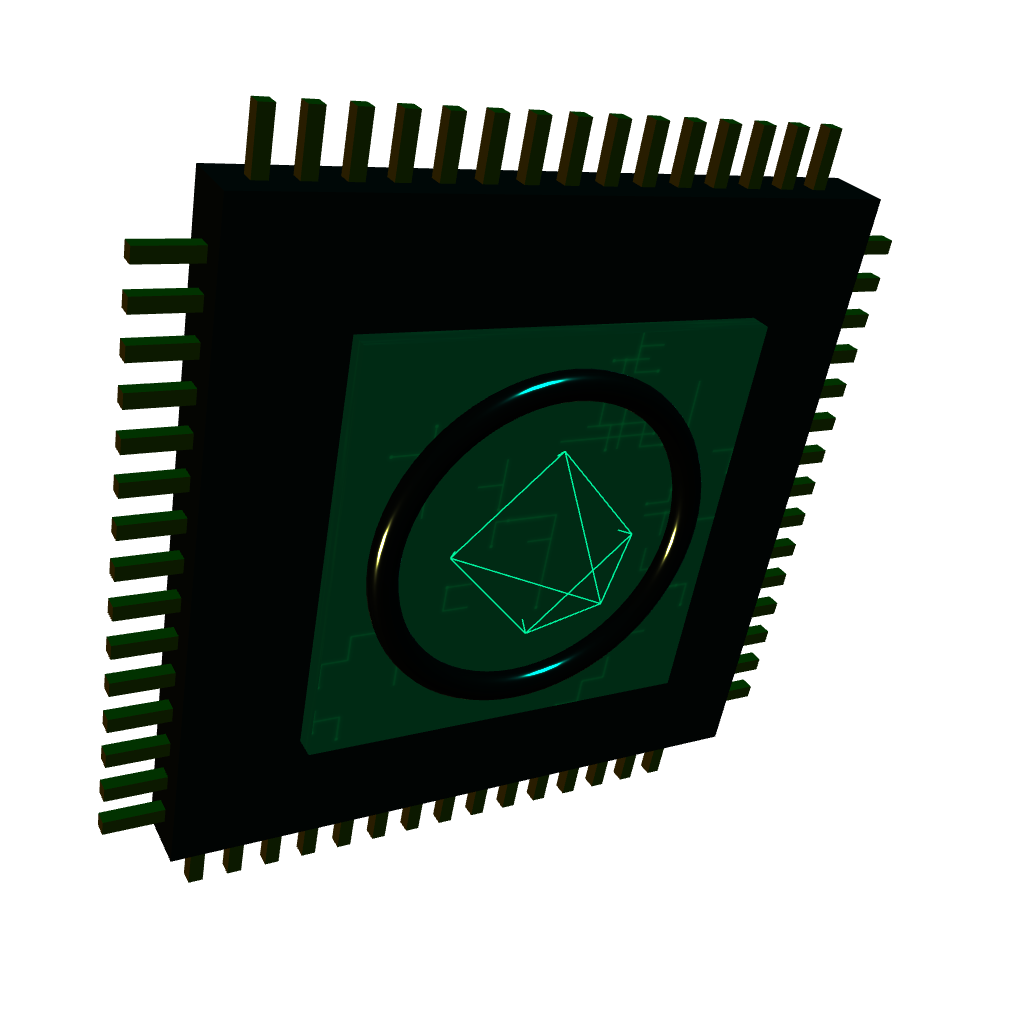
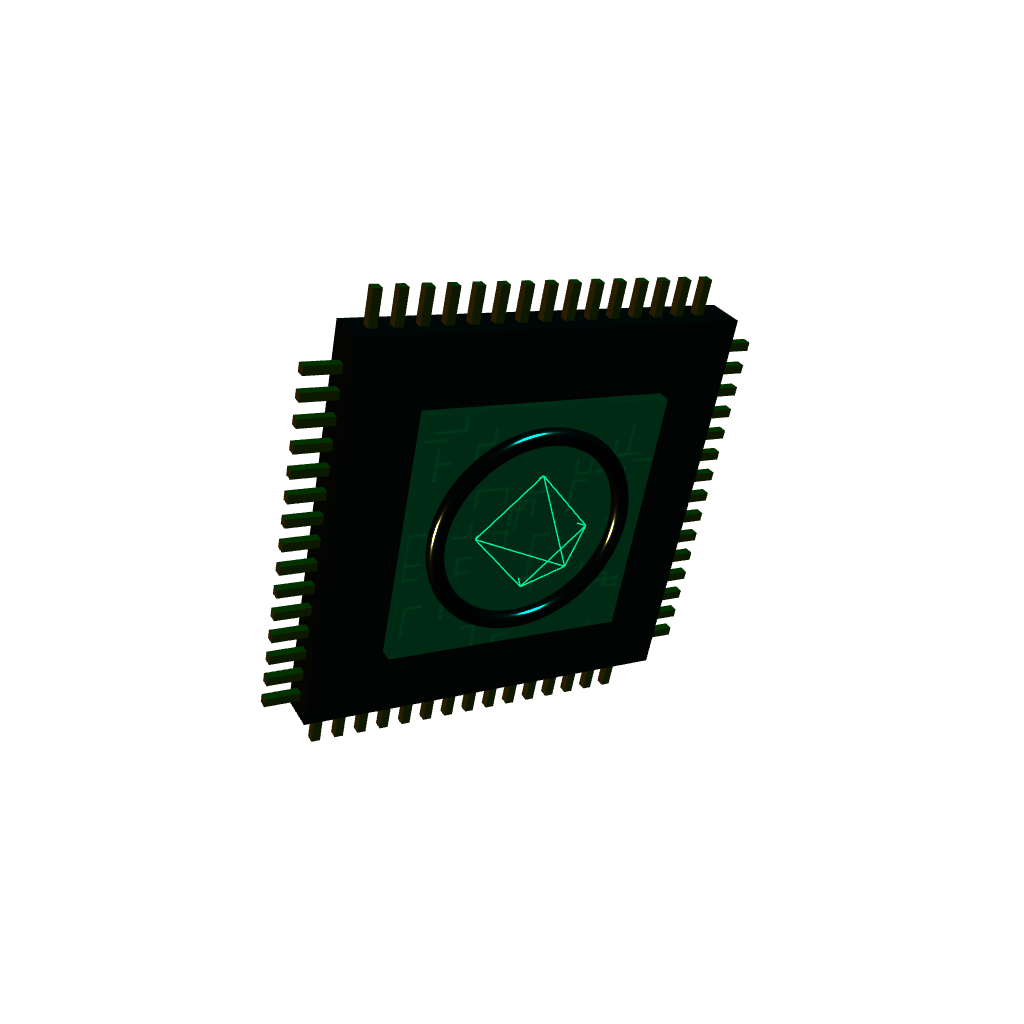
fix(assets): re-render 3D assets with generous padding safe margins, eliminate edge clipping, and add smooth floating levitation micro-animations

diff --git a/src/components/AboutSection.tsx b/src/components/AboutSection.tsx
@@ -24,13 +24,13 @@ export function AboutSection() {
         <FadeIn delay={0.1} x={-80} y={0} duration={0.9}>
           <div
             onClick={() => sfx.playBlip(920)}
-            className="relative group p-3 rounded-3xl bg-gradient-to-br from-white/10 via-black/80 to-white/5 border border-white/20 backdrop-blur-2xl shadow-2xl hover:scale-105 transition-all duration-300 cursor-pointer"
+            className="relative group p-4 sm:p-5 rounded-3xl bg-gradient-to-br from-white/10 via-black/80 to-white/5 border border-white/20 backdrop-blur-2xl shadow-2xl hover:scale-105 transition-all duration-300 cursor-pointer"
           >
             <div className="absolute -inset-2 bg-gradient-to-tr from-[#00f5a0]/30 to-[#7621B0]/30 rounded-3xl blur-xl opacity-60 group-hover:opacity-100 transition-opacity" />
             <img
               src="/assets/jinx_chip_webgpu.png"
               alt="3D Neural Core"
-              className="relative z-10 w-full h-auto object-contain rounded-2xl filter drop-shadow-[0_15px_30px_rgba(0,0,0,0.9)]"
+              className="relative z-10 w-full h-auto object-contain filter drop-shadow-[0_15px_30px_rgba(0,0,0,0.9)] animate-float-slow"
               loading="lazy"
             />
             <div className="text-[11px] font-mono text-center text-[#00f5a0] mt-2 uppercase tracking-widest font-semibold flex items-center justify-center gap-1">
@@ -46,13 +46,13 @@ export function AboutSection() {
         <FadeIn delay={0.25} x={-80} y={0} duration={0.9}>
           <div
             onClick={() => sfx.playBlip(750)}
-            className="relative group p-3 rounded-3xl bg-gradient-to-br from-white/10 via-black/80 to-white/5 border border-white/20 backdrop-blur-2xl shadow-2xl hover:scale-105 transition-all duration-300 cursor-pointer"
+            className="relative group p-4 sm:p-5 rounded-3xl bg-gradient-to-br from-white/10 via-black/80 to-white/5 border border-white/20 backdrop-blur-2xl shadow-2xl hover:scale-105 transition-all duration-300 cursor-pointer"
           >
             <div className="absolute -inset-2 bg-[#7621B0]/30 rounded-full blur-xl opacity-60 group-hover:opacity-100 transition-opacity" />
             <img
               src="/assets/jinx_vector_rag_3d.png"
               alt="3D Vector RAG Globe"
-              className="relative z-10 w-full h-auto object-contain rounded-2xl filter drop-shadow-[0_15px_30px_rgba(0,0,0,0.9)]"
+              className="relative z-10 w-full h-auto object-contain filter drop-shadow-[0_15px_30px_rgba(0,0,0,0.9)] animate-float-delayed"
               loading="lazy"
             />
             <div className="text-[11px] font-mono text-center text-[#D7E2EA] mt-2 uppercase tracking-widest font-semibold">
@@ -67,13 +67,13 @@ export function AboutSection() {
         <FadeIn delay={0.15} x={80} y={0} duration={0.9}>
           <div
             onClick={() => sfx.playBlip(820)}
-            className="relative group p-3 rounded-3xl bg-gradient-to-br from-white/10 via-black/80 to-white/5 border border-white/20 backdrop-blur-2xl shadow-2xl hover:scale-105 transition-all duration-300 cursor-pointer"
+            className="relative group p-4 sm:p-5 rounded-3xl bg-gradient-to-br from-white/10 via-black/80 to-white/5 border border-white/20 backdrop-blur-2xl shadow-2xl hover:scale-105 transition-all duration-300 cursor-pointer"
           >
             <div className="absolute -inset-2 bg-gradient-to-tr from-[#BE4C00]/40 to-[#E07A5F]/40 rounded-3xl blur-xl opacity-60 group-hover:opacity-100 transition-opacity" />
             <img
               src="/assets/jinx_pyodide_engine.png"
               alt="Pyodide WASM Engine"
-              className="relative z-10 w-full h-auto object-contain rounded-2xl filter drop-shadow-[0_15px_30px_rgba(0,0,0,0.9)]"
+              className="relative z-10 w-full h-auto object-contain filter drop-shadow-[0_15px_30px_rgba(0,0,0,0.9)] animate-float-subtle"
               loading="lazy"
             />
             <div className="text-[11px] font-mono text-center text-[#F4A261] mt-2 uppercase tracking-widest font-semibold">
@@ -88,13 +88,13 @@ export function AboutSection() {
         <FadeIn delay={0.3} x={80} y={0} duration={0.9}>
           <div
             onClick={() => sfx.playSuccess()}
-            className="relative group p-3 rounded-3xl bg-gradient-to-br from-white/10 via-black/80 to-white/5 border border-white/20 backdrop-blur-2xl shadow-2xl hover:scale-105 transition-all duration-300 cursor-pointer"
+            className="relative group p-4 sm:p-5 rounded-3xl bg-gradient-to-br from-white/10 via-black/80 to-white/5 border border-white/20 backdrop-blur-2xl shadow-2xl hover:scale-105 transition-all duration-300 cursor-pointer"
           >
             <div className="absolute -inset-2 bg-[#00f5a0]/30 rounded-full blur-xl opacity-60 group-hover:opacity-100 transition-opacity" />
             <img
               src="/assets/jinx_survival_radar.png"
               alt="100% Air-Gapped Sovereign Shield"
-              className="relative z-10 w-full h-auto object-contain rounded-2xl filter drop-shadow-[0_15px_30px_rgba(0,0,0,0.9)]"
+              className="relative z-10 w-full h-auto object-contain filter drop-shadow-[0_15px_30px_rgba(0,0,0,0.9)] animate-float-slow"
               loading="lazy"
             />
             <div className="text-[11px] font-mono text-center text-[#00f5a0] mt-2 uppercase tracking-widest font-semibold flex items-center justify-center gap-1">

diff --git a/src/components/ProjectsSection.tsx b/src/components/ProjectsSection.tsx
@@ -232,16 +232,16 @@ function ShowcaseCard({ showcase, index, totalCards }: ShowcaseCardProps) {
             </div>
 
             {/* Central Graphic with Glow */}
-            <div className="relative my-4 flex items-center justify-center overflow-hidden rounded-2xl">
+            <div className="relative my-auto py-4 sm:py-6 flex items-center justify-center">
               <div
-                className="absolute -inset-6 rounded-full blur-3xl opacity-30 group-hover:opacity-60 transition-opacity duration-700"
+                className="absolute -inset-4 rounded-full blur-3xl opacity-30 group-hover:opacity-60 transition-opacity duration-700 pointer-events-none"
                 style={{ backgroundColor: showcase.accent }}
               />
               <img
                 src={showcase.imageSrc}
                 alt={showcase.title}
                 loading="lazy"
-                className="relative z-10 max-h-[220px] sm:max-h-[260px] w-full object-cover rounded-xl border border-white/10 shadow-2xl group-hover:scale-103 transition-transform duration-500"
+                className="relative z-10 max-h-[200px] sm:max-h-[240px] md:max-h-[250px] w-auto max-w-[85%] object-contain filter drop-shadow-[0_20px_45px_rgba(0,0,0,0.95)] group-hover:scale-105 transition-transform duration-700 animate-float-slow pointer-events-none"
               />
             </div>
 

diff --git a/src/index.css b/src/index.css
@@ -115,3 +115,49 @@
 .animate-marquee-reverse:hover {
   animation-play-state: paused;
 }
+
+
+/* 3D Floating & Micro-Animations for Sovereign Assets */
+@keyframes float {
+  0%, 100% {
+    transform: translateY(0px) rotate(0deg);
+  }
+  50% {
+    transform: translateY(-9px) rotate(1.2deg);
+  }
+}
+
+@keyframes float-reverse {
+  0%, 100% {
+    transform: translateY(0px) rotate(0deg);
+  }
+  50% {
+    transform: translateY(9px) rotate(-1.2deg);
+  }
+}
+
+@keyframes float-hero {
+  0%, 100% {
+    transform: translateY(0px) rotate(0deg) scale(1);
+  }
+  50% {
+    transform: translateY(-12px) rotate(1.8deg) scale(1.02);
+  }
+}
+
+.animate-float-hero {
+  animation: float-hero 8s ease-in-out infinite;
+}
+
+.animate-float-slow {
+  animation: float 7s ease-in-out infinite;
+}
+
+.animate-float-delayed {
+  animation: float-reverse 8.5s ease-in-out infinite;
+}
+
+.animate-float-subtle {
+  animation: float 6.5s ease-in-out infinite;
+  animation-delay: 1.5s;
+}

diff --git a/src/components/DigitalWaveFieldHero.tsx b/src/components/DigitalWaveFieldHero.tsx
@@ -522,7 +522,7 @@ export function DigitalWaveFieldHero({
                       '/assets/jinx_hero_core_3d.png'
                   }}
                   alt="Jinx Sovereign 3D Core & Mobile Assistant"
-                  className="relative z-10 w-[240px] sm:w-[320px] md:w-[400px] lg:w-[460px] h-auto object-contain drop-shadow-[0_20px_50px_rgba(0,0,0,0.85)] filter contrast-105 group-hover:scale-105 transition-transform duration-500 rounded-3xl"
+                  className="relative z-10 w-[230px] sm:w-[300px] md:w-[380px] lg:w-[430px] h-auto object-contain drop-shadow-[0_25px_60px_rgba(0,0,0,0.9)] filter contrast-105 group-hover:scale-105 transition-transform duration-700 animate-float-hero pointer-events-none"
                   draggable={false}
                 />
                 {/* Touch hint badge */}
